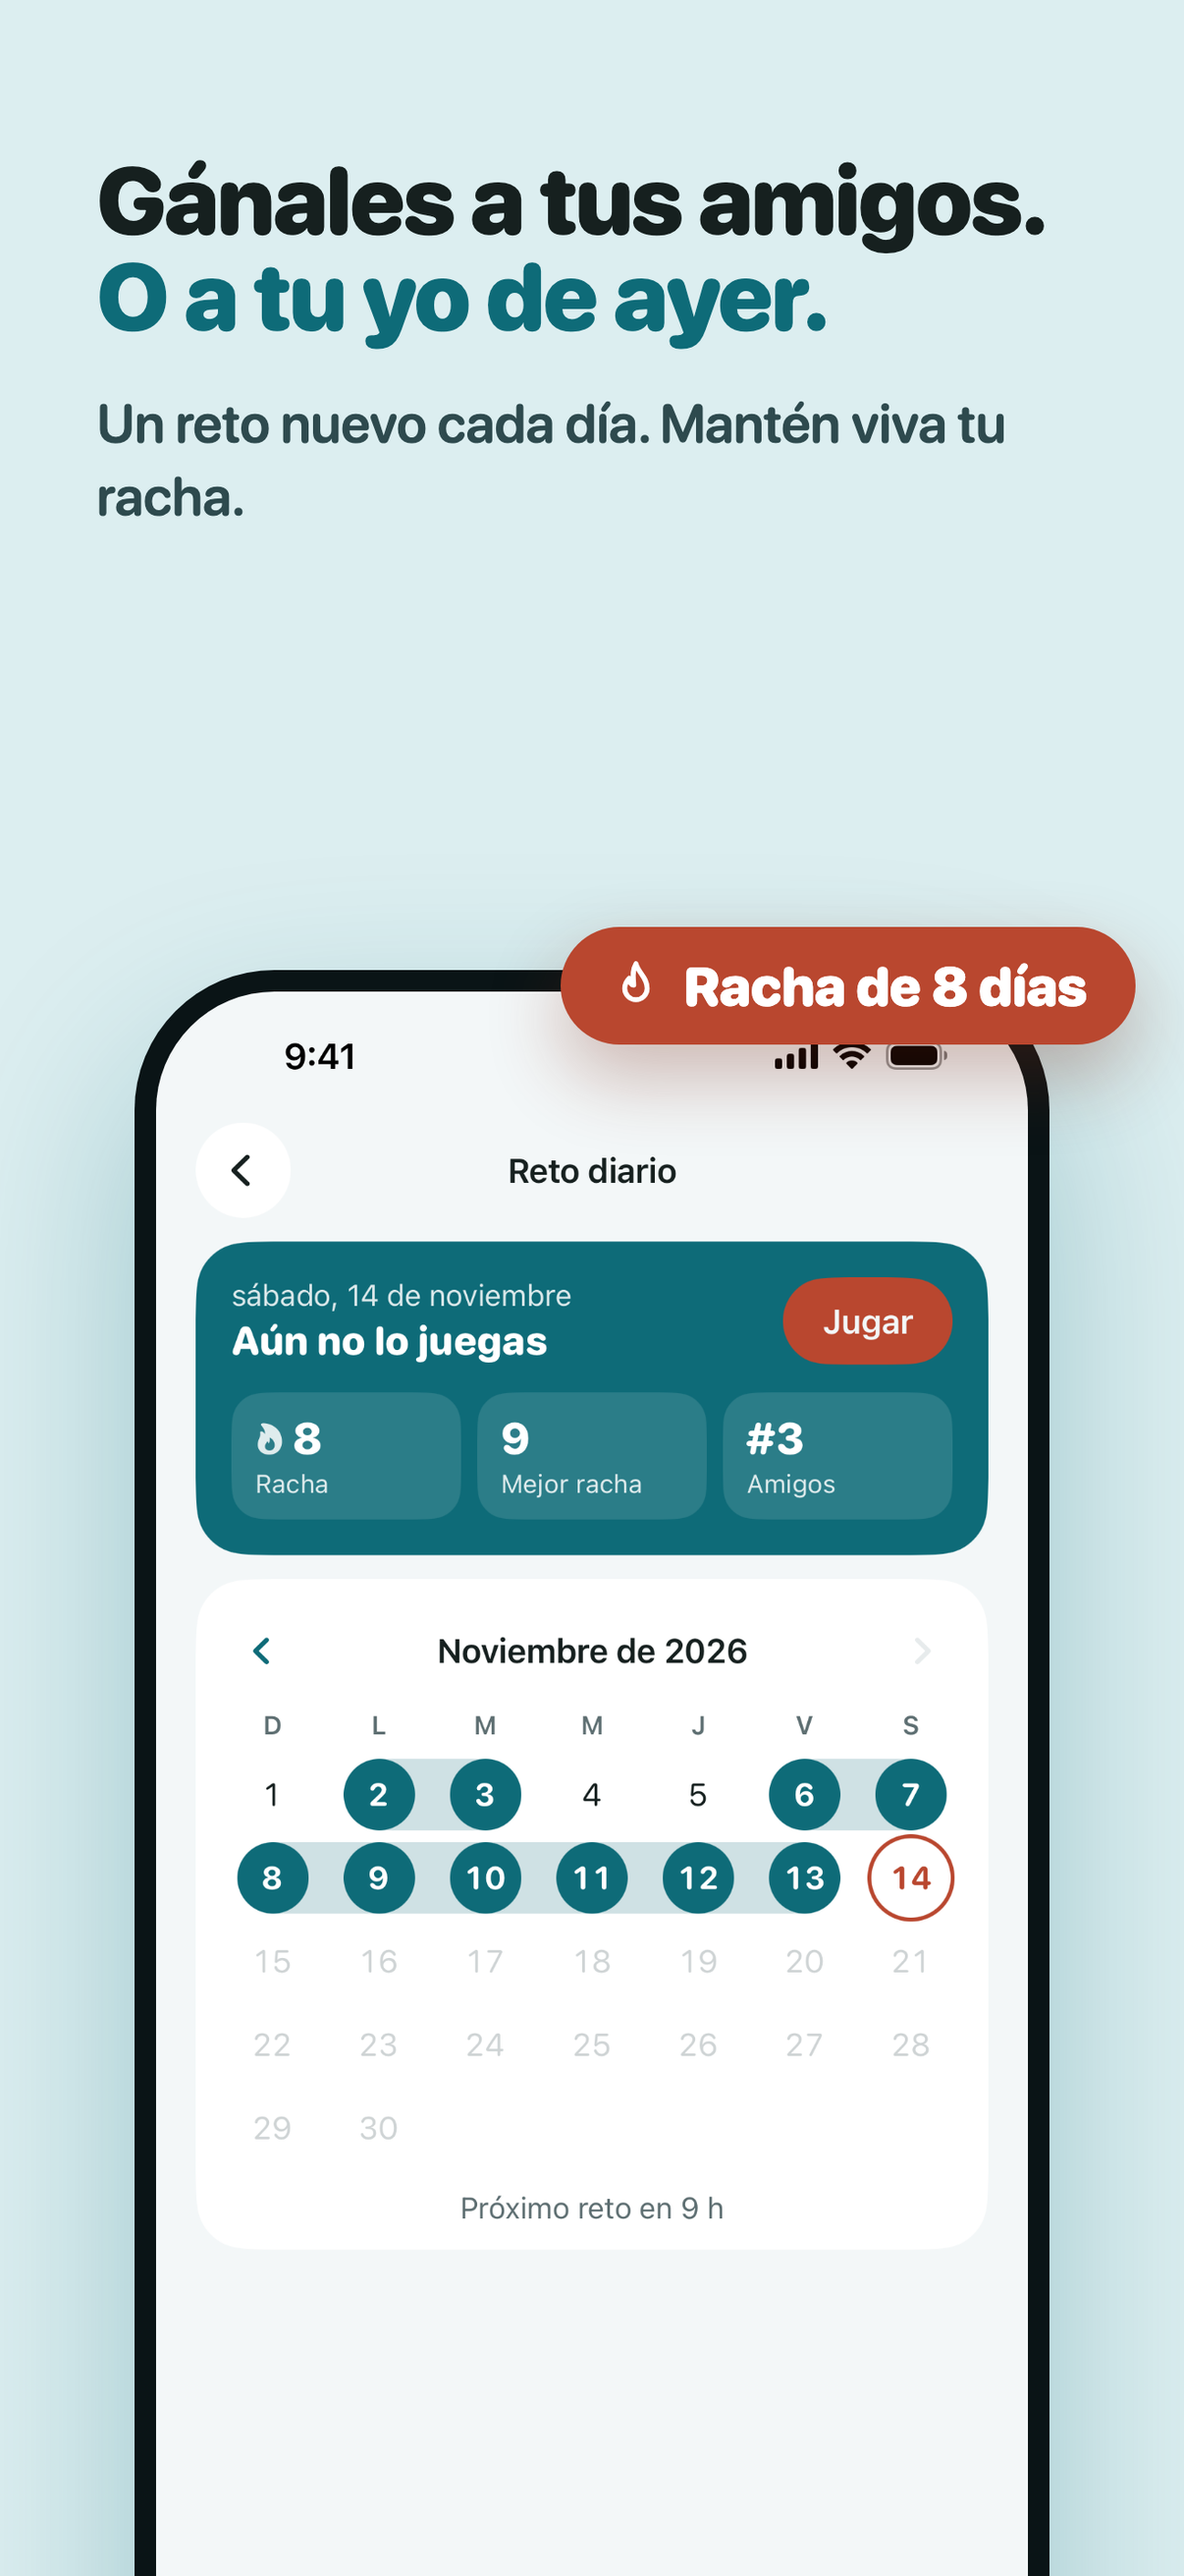
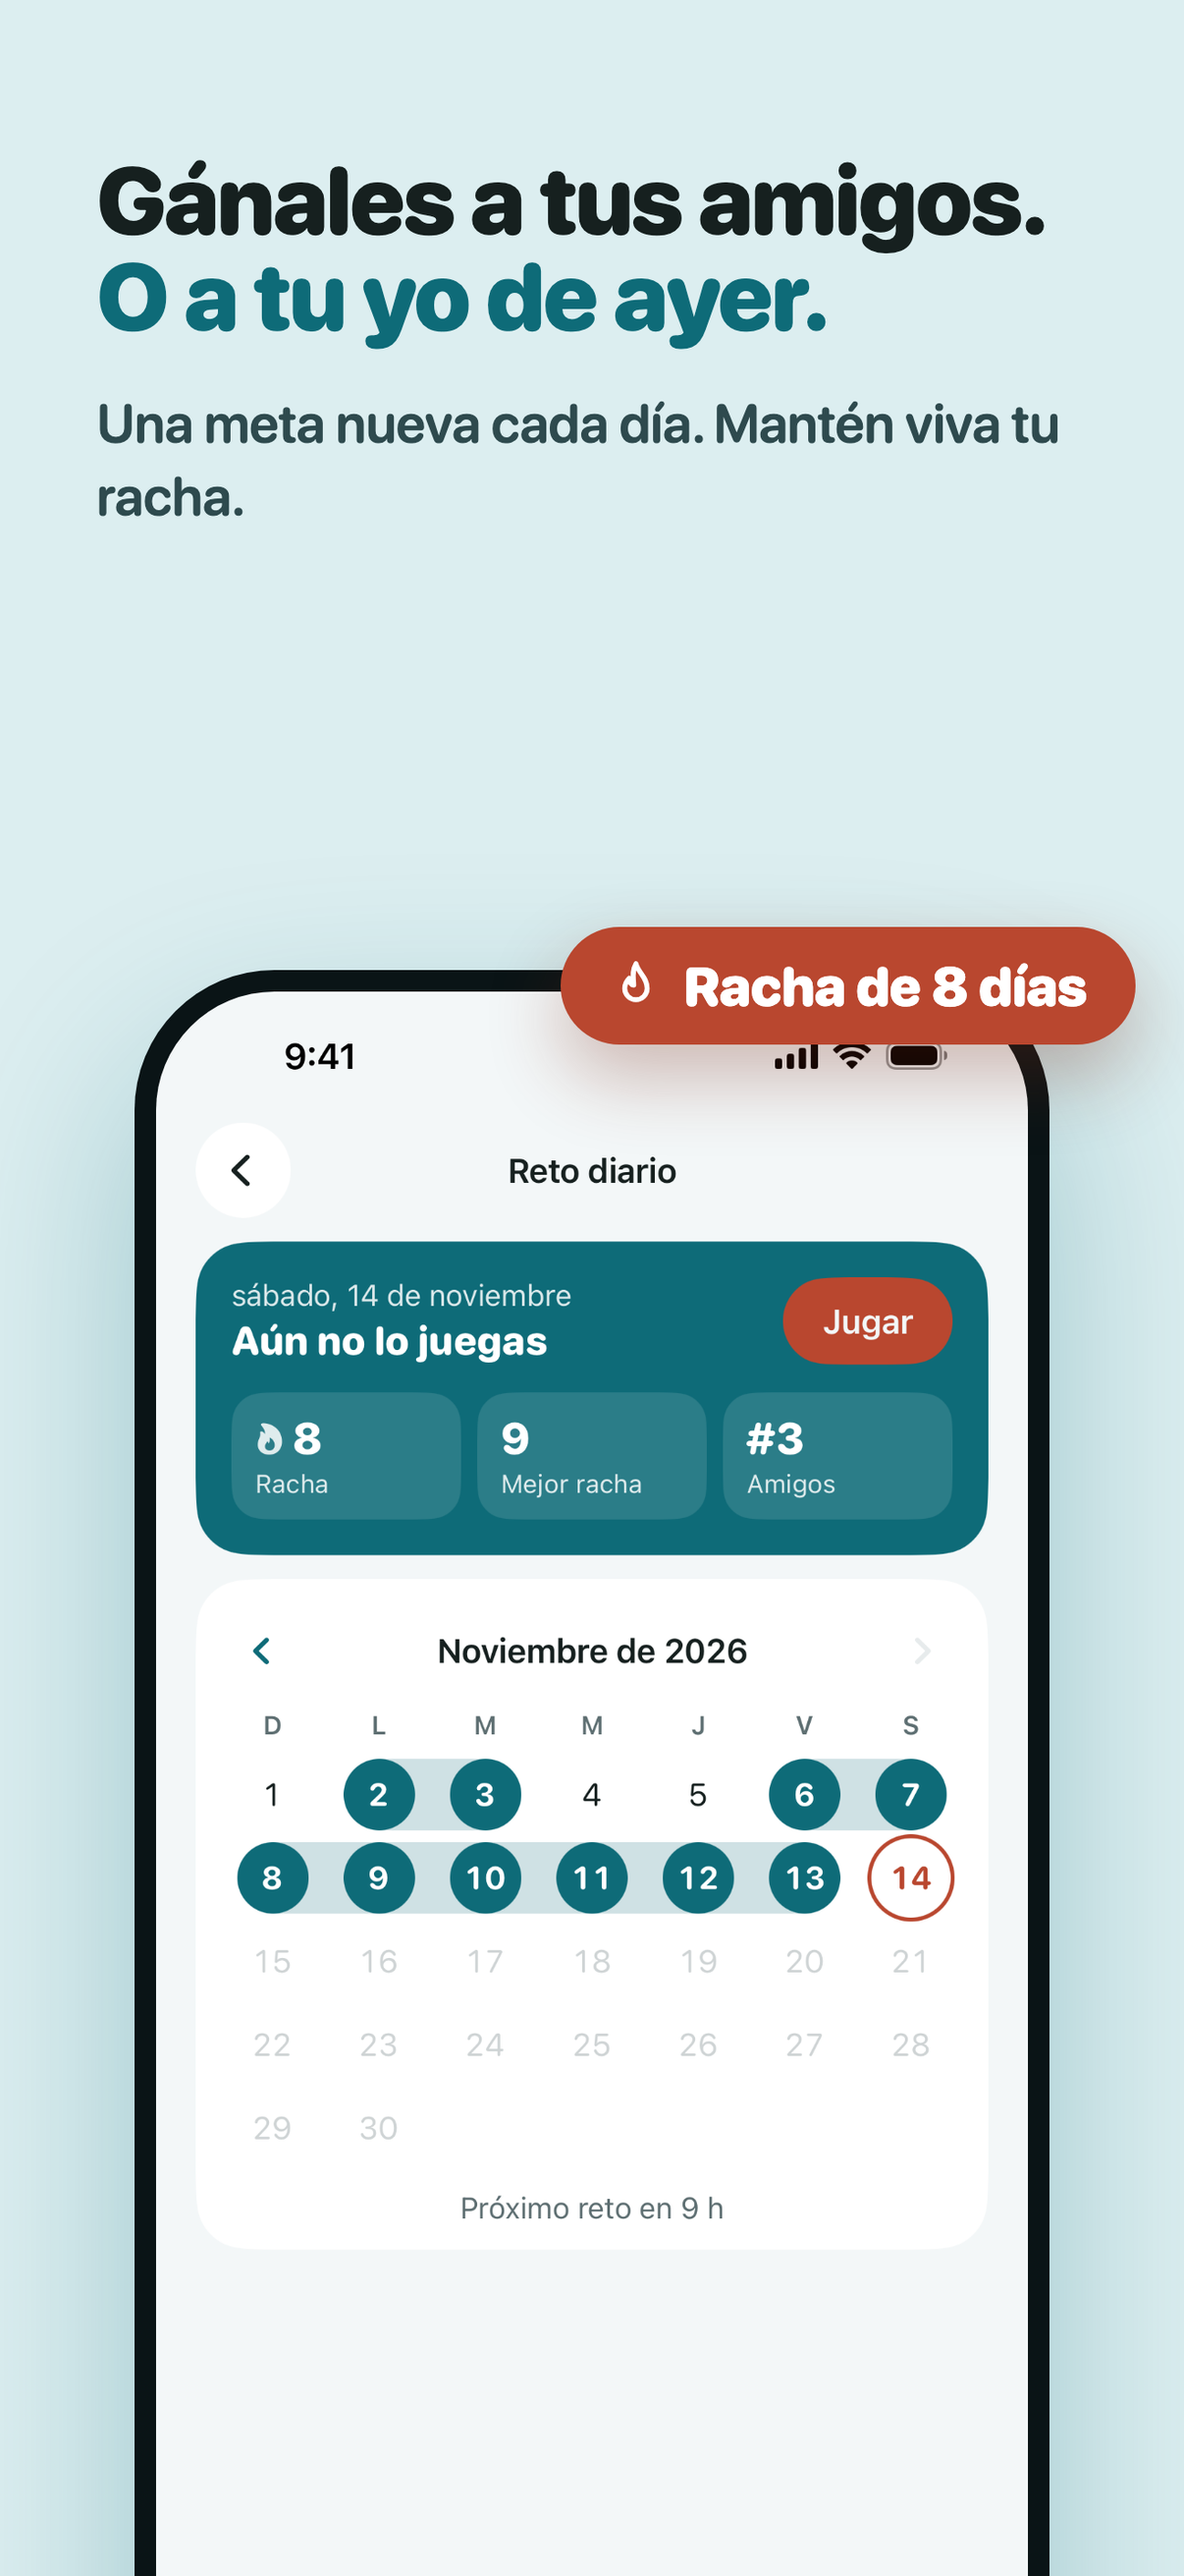
Quiet Numbers: texto de la imagen 03 con la meta diaria
- store-images.py: la línea de apoyo de la imagen 03 menciona la meta ("A new score goal every day" / "Una meta nueva cada día").
- Las imágenes 03-daily de iPhone quedaron recompuestas con ese texto pero con la captura anterior; se regeneran con la 1.0.1.

Changed region(s): [[0.1227, 0.1545, 0.8897, 0.1854]]

diff --git a/quiet-numbers/scripts/store-images.py b/quiet-numbers/scripts/store-images.py
@@ -39,14 +39,14 @@ TEXT = {
     "en": {
         1: ("Your 5-minute<br><span>break.</span>", "One quick round of numbers. Clear your head, beat your best, back to your day."),
         2: ("Match.<br><span>Pop.</span> <em>Clear.</em>", "Pair equal numbers or two that add up to 10. Horizontal, vertical or diagonal."),
-        3: ("Beat your friends.<br><span>Or just yesterday's you.</span>", "New challenges every day. Keep your streak alive."),
+        3: ("Beat your friends.<br><span>Or just yesterday's you.</span>", "A new score goal every day. Keep your streak alive."),
         4: ("No ads.<br><span>No purchases.</span>", "Always free, no hidden charges. Just focus on playing."),
         5: ("Climb to<br><span>the top</span>", "Daily, best score and streak leaderboards with your friends and the world, on Game Center."),
     },
     "es": {
         1: ("Tu pausa de<br><span>5 minutos.</span>", "Una ronda rápida de números. Despeja la mente, supera tu récord y vuelve a tu día."),
         2: ("Junta.<br><span>Explota.</span> <em>Limpia.</em>", "Junta números iguales o dos que sumen 10. En horizontal, vertical o diagonal."),
-        3: ("Gánales a tus amigos.<br><span>O a tu yo de ayer.</span>", "Un reto nuevo cada día. Mantén viva tu racha."),
+        3: ("Gánales a tus amigos.<br><span>O a tu yo de ayer.</span>", "Una meta nueva cada día. Mantén viva tu racha."),
         4: ("Sin anuncios.<br><span>Sin compras.</span>", "Gratis siempre, sin cobros ocultos. Solo concéntrate en jugar."),
         5: ("Llega a<br><span>la cima</span>", "Clasificaciones del día, de mejor puntaje y de racha con tus amigos y el mundo, en Game Center."),
     },
